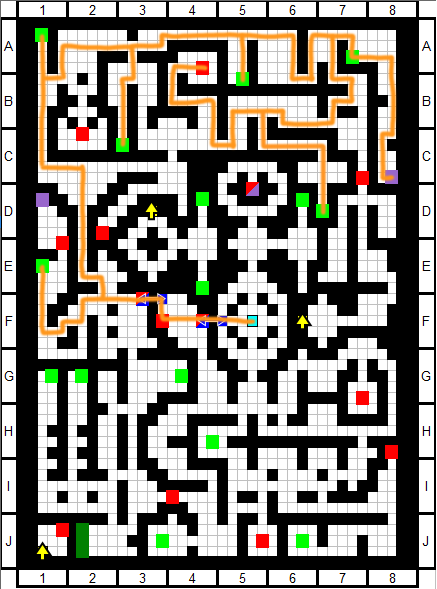
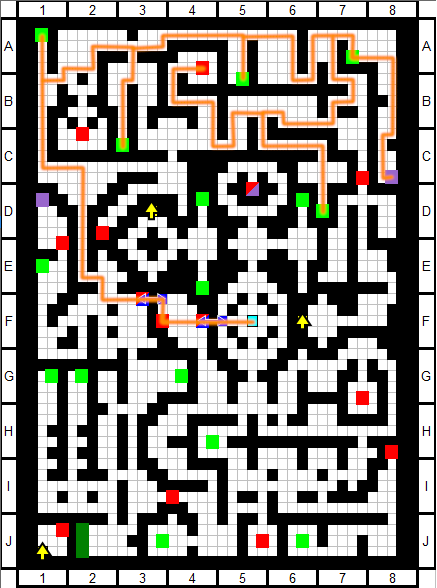
Removed some equipments from 1F exploring and menus

diff --git a/item/chests.md b/item/chests.md
@@ -47,7 +47,7 @@ Any treasure located in floor A that can only be obtained after reaching floor B
 | Magic Gem x2<br>Energy Gem x2 | X |
 | Bludgeon | O |
 | Bulletproof Armor | O |
-| Cantrip Book | O |
+| Cantrip Book | X |
 | Cypress Stick | O |
 | Great Tree's Leaf | O |
 | Insect's Exoskeleton | O |
@@ -56,10 +56,10 @@ Any treasure located in floor A that can only be obtained after reaching floor B
 | Manga Meat | O |
 | Miko Board | X |
 | Piece of Heart | O |
-| Power Bracer | O |
+| Power Bracer | X |
 | Steadfast Ring | X |
-| Floor Total | 12 |
-| Combined Total | 12 |
+| Floor Total | 10 |
+| Combined Total | 10 |
 
 #### <a id="floor-2"></a>Floor 2
 

diff --git a/routes/ng/murakumo.md b/routes/ng/murakumo.md
@@ -105,10 +105,8 @@
 			* <span class="equip-remove"> (1, 2) **Remove**</span>
 		* <span class="equip-add"> **Momiji**:</span>
 			* <span class="equip-add"> (2) **Piece of Heart** (1)</span>
-			* <span class="equip-add"> (3) **Power Bracer** (1)</span>
 			* <span class="equip-add"> (1) **Purple Metallic Armor** (1)</span>
 		* <span class="equip-add"> **Marisa**:</span>
-			* <span class="equip-add"> (2) **Cantrip Book** (1)</span>
 			* <span class="equip-add"> (M) **Cypress Stick** (1)</span>
 	* Learn Skills:
 		* <span class="learn-skill"> **Keine**: MP Boost 0 -> 2 </span>
